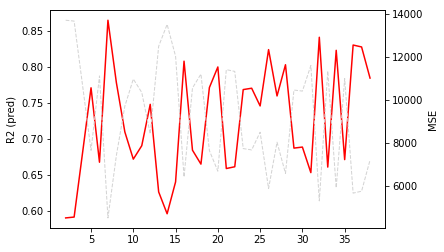
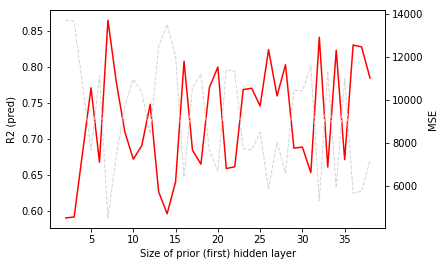
[UPDATE] Result of Exp 2 in Readme

diff --git a/README.md b/README.md
@@ -9,4 +9,12 @@ variable sizes.
 
 ## Experiment #1: ##
 
+Use: 2 hidden layers, prior layer varies, later one has 2/3 size of input + output
+
 ![alt text](https://github.com/magiciiboy/neural-network-hidden-layers/blob/master/output/exp1.png?raw=true)
+
+## Experiment #2: ##
+
+Use: 2 hidden layers, prior layer has 2/3 size of input + output, later one varies
+
+![alt text](https://github.com/magiciiboy/neural-network-hidden-layers/blob/master/output/exp2.png?raw=true)
